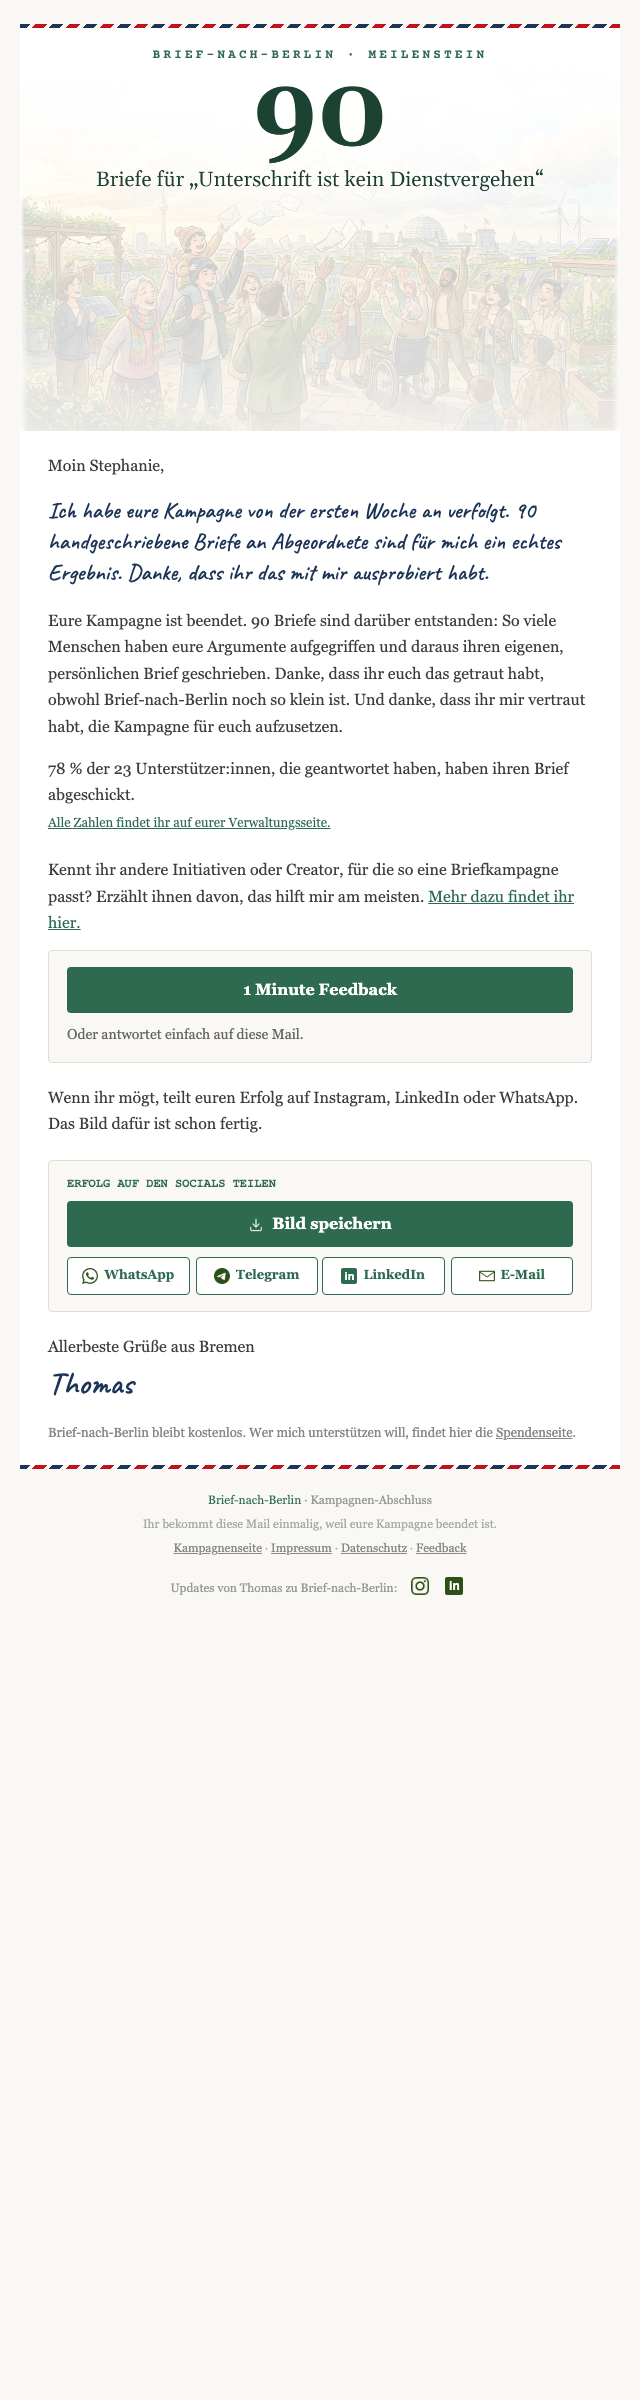
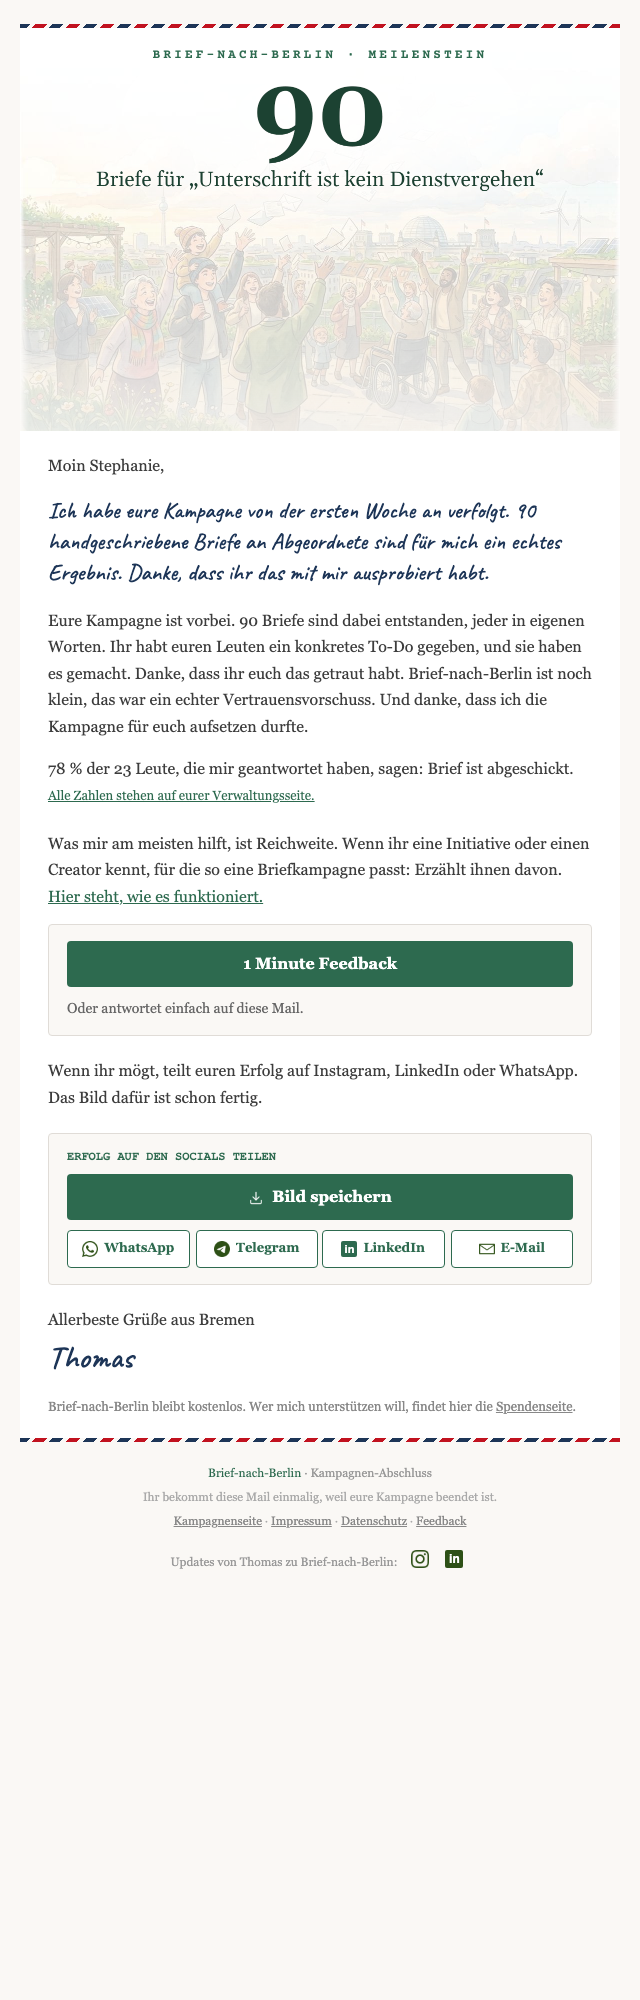
fix(email): Abschluss-Mail-Texte freigegeben: konkretes To-Do, Reichweite-Bitte, kürzere Abschickquote

Changed region(s): [[0.0312, 0.0, 0.9688, 0.713], [0.25, 0.713, 0.5, 0.775], [0.5, 0.713, 0.7188, 0.806]]

diff --git a/web/src/__tests__/campaignEndedEmail.test.ts b/web/src/__tests__/campaignEndedEmail.test.ts
@@ -35,7 +35,7 @@ describe("campaign ended creator email", () => {
 
     expect(html).toContain("Moin Stephanie,");
     expect(html).toContain(
-      "Eure Kampagne ist beendet. 90 Briefe sind darüber entstanden: So viele Menschen haben eure Argumente aufgegriffen und daraus ihren eigenen, persönlichen Brief geschrieben. Danke, dass ihr euch das getraut habt, obwohl Brief-nach-Berlin noch so klein ist.",
+      "Eure Kampagne ist vorbei. 90 Briefe sind dabei entstanden, jeder in eigenen Worten. Ihr habt euren Leuten ein konkretes To-Do gegeben, und sie haben es gemacht. Danke, dass ihr euch das getraut habt. Brief-nach-Berlin ist noch klein, das war ein echter Vertrauensvorschuss.",
     );
     expect(html).toContain(
       "Wenn ihr mögt, teilt euren Erfolg auf Instagram, LinkedIn oder WhatsApp. Das Bild dafür ist schon fertig.",
@@ -56,7 +56,7 @@ describe("campaign ended creator email", () => {
     expect(html).not.toContain("<b>Mut</b>");
     const greeting = html.indexOf("Moin Stephanie,");
     const note = html.indexOf("Ihr habt &lt;b&gt;");
-    const thanks = html.indexOf("Eure Kampagne ist beendet.");
+    const thanks = html.indexOf("Eure Kampagne ist vorbei.");
     expect(greeting).toBeLessThan(note);
     expect(note).toBeLessThan(thanks);
     expect(html).toMatch(/font-family:'Caveat'[^>]*>Ihr habt/);
@@ -76,22 +76,22 @@ describe("campaign ended creator email", () => {
   });
 
   it("adds the founder thank-you sentence only when created_by_founder", () => {
-    const sentence = "Und danke, dass ihr mir vertraut habt, die Kampagne für euch aufzusetzen.";
+    const sentence = "Und danke, dass ich die Kampagne für euch aufsetzen durfte.";
     expect(build()).not.toContain(sentence);
     expect(build({ ended: { ...ended, createdByFounder: false } })).not.toContain(sentence);
     expect(build({ ended: { ...ended, createdByFounder: true } })).toContain(sentence);
   });
 
   it("shows the honest send-rate line only with a stat, linked to the creator stats", () => {
-    expect(build()).not.toContain("haben ihren Brief abgeschickt");
+    expect(build()).not.toContain("Brief ist abgeschickt");
     expect(build()).not.toContain("#creator-stats");
 
     const html = build({ ended: { ...ended, sendStat: { percent: 78, responses: 23 } } });
     expect(html).toContain(
-      "78 % der 23 Unterstützer:innen, die geantwortet haben, haben ihren Brief abgeschickt.",
+      "78 % der 23 Leute, die mir geantwortet haben, sagen: Brief ist abgeschickt.",
     );
     expect(html).toContain(`href="${base.actionUrl}#creator-stats"`);
-    expect(html).toContain("Alle Zahlen findet ihr auf eurer Verwaltungsseite.");
+    expect(html).toContain("Alle Zahlen stehen auf eurer Verwaltungsseite.");
     expect(html).not.toContain("Statistiken ansehen");
   });
 
@@ -99,7 +99,7 @@ describe("campaign ended creator email", () => {
     const html = build();
 
     expect(html).toContain(
-      "Kennt ihr andere Initiativen oder Creator, für die so eine Briefkampagne passt? Erzählt ihnen davon, das hilft mir am meisten.",
+      "Was mir am meisten hilft, ist Reichweite. Wenn ihr eine Initiative oder einen Creator kennt, für die so eine Briefkampagne passt: Erzählt ihnen davon.",
     );
     expect(html).toContain(`href="${APP_URL}/ngo-briefkampagne"`);
     const referral = html.indexOf("/ngo-briefkampagne");
@@ -253,8 +253,8 @@ describe("sendCampaignCreatorEmail kind ended", () => {
 
     const html = mockSendTransacEmail.mock.calls[0][0].htmlContent;
     expect(html).toContain("Danke für alles.");
-    expect(html).toContain("die Kampagne für euch aufzusetzen");
-    expect(html).toContain("64 % der 12 Unterstützer:innen");
+    expect(html).toContain("die Kampagne für euch aufsetzen durfte");
+    expect(html).toContain("64 % der 12 Leute, die mir geantwortet haben");
     expect(html).toContain("/kampagne/verwalten?token=tok#creator-stats");
     expect(mockSendTransacEmail.mock.calls[0][0].subject).not.toContain("[Vorschau]");
   });

diff --git a/.planning/quick/261014-hhs-kampagnen-abschluss-mail-mit-1-minute-fe/preview/ended-founder-stats.html b/.planning/quick/261014-hhs-kampagnen-abschluss-mail-mit-1-minute-fe/preview/ended-founder-stats.html
@@ -36,9 +36,9 @@
             <td class="bnb-pad" style="padding:22px 28px 0;">
               <p style="margin:0 0 16px;font-size:16px;line-height:1.65;">Moin Stephanie,</p>
               <p style="margin:0 0 20px;font-family:'Caveat','Brush Script MT','Lucida Handwriting',cursive;color:#1D3557;font-size:23px;line-height:1.35;">Ich habe eure Kampagne von der ersten Woche an verfolgt. 90 handgeschriebene Briefe an Abgeordnete sind für mich ein echtes Ergebnis. Danke, dass ihr das mit mir ausprobiert habt.</p>
-              <p style="margin:0 0 16px;font-size:16px;line-height:1.65;">Eure Kampagne ist beendet. 90 Briefe sind darüber entstanden: So viele Menschen haben eure Argumente aufgegriffen und daraus ihren eigenen, persönlichen Brief geschrieben. Danke, dass ihr euch das getraut habt, obwohl Brief-nach-Berlin noch so klein ist. Und danke, dass ihr mir vertraut habt, die Kampagne für euch aufzusetzen.</p>
-              <p style="margin:0 0 22px;font-size:16px;line-height:1.65;">78 % der 23 Unterstützer:innen, die geantwortet haben, haben ihren Brief abgeschickt.<br><a href="https://www.brief-nach-berlin.de/kampagne/verwalten?token=vorschau#creator-stats" target="_blank" rel="noopener noreferrer" style="font-size:13px;color:#2D6A4F;text-decoration:underline;">Alle Zahlen findet ihr auf eurer Verwaltungsseite.</a></p>
-              <p style="margin:0 0 14px;font-size:16px;line-height:1.65;">Kennt ihr andere Initiativen oder Creator, für die so eine Briefkampagne passt? Erzählt ihnen davon, das hilft mir am meisten. <a href="https://www.brief-nach-berlin.de/ngo-briefkampagne" target="_blank" rel="noopener noreferrer" style="color:#2D6A4F;text-decoration:underline;">Mehr dazu findet ihr hier.</a></p>
+              <p style="margin:0 0 16px;font-size:16px;line-height:1.65;">Eure Kampagne ist vorbei. 90 Briefe sind dabei entstanden, jeder in eigenen Worten. Ihr habt euren Leuten ein konkretes To-Do gegeben, und sie haben es gemacht. Danke, dass ihr euch das getraut habt. Brief-nach-Berlin ist noch klein, das war ein echter Vertrauensvorschuss. Und danke, dass ich die Kampagne für euch aufsetzen durfte.</p>
+              <p style="margin:0 0 22px;font-size:16px;line-height:1.65;">78 % der 23 Leute, die mir geantwortet haben, sagen: Brief ist abgeschickt.<br><a href="https://www.brief-nach-berlin.de/kampagne/verwalten?token=vorschau#creator-stats" target="_blank" rel="noopener noreferrer" style="font-size:13px;color:#2D6A4F;text-decoration:underline;">Alle Zahlen stehen auf eurer Verwaltungsseite.</a></p>
+              <p style="margin:0 0 14px;font-size:16px;line-height:1.65;">Was mir am meisten hilft, ist Reichweite. Wenn ihr eine Initiative oder einen Creator kennt, für die so eine Briefkampagne passt: Erzählt ihnen davon. <a href="https://www.brief-nach-berlin.de/ngo-briefkampagne" target="_blank" rel="noopener noreferrer" style="color:#2D6A4F;text-decoration:underline;">Hier steht, wie es funktioniert.</a></p>
               <div style="margin:0 0 22px;padding:16px 18px;background-color:#FAF8F5;border:1px solid #E0DCD7;border-radius:4px;">
                 <a href="https://www.brief-nach-berlin.de/kampagne/verwalten?token=vorschau&amp;ziel=feedback" target="_blank" rel="noopener noreferrer" class="bnb-cta-link" style="display:block;text-align:center;background-color:#2D6A4F;color:#ffffff;font-size:16px;font-weight:bold;text-decoration:none;padding:13px 10px;border-radius:4px;line-height:1.25;margin:0 0 10px;">1 Minute Feedback</a>
                 <p style="margin:0;font-size:14px;line-height:1.6;color:#666666;">Oder antwortet einfach auf diese Mail.</p>

diff --git a/web/src/lib/email/buildCampaignCreatorEmailHtml.ts b/web/src/lib/email/buildCampaignCreatorEmailHtml.ts
@@ -309,19 +309,19 @@ function buildCampaignEndedEmailHtml(
       : "";
 
   const thanks = paragraph(
-    `Eure Kampagne ist beendet. ${count} Briefe sind darüber entstanden: So viele Menschen haben eure Argumente aufgegriffen und daraus ihren eigenen, persönlichen Brief geschrieben. Danke, dass ihr euch das getraut habt, obwohl Brief-nach-Berlin noch so klein ist.${
+    `Eure Kampagne ist vorbei. ${count} Briefe sind dabei entstanden, jeder in eigenen Worten. Ihr habt euren Leuten ein konkretes To-Do gegeben, und sie haben es gemacht. Danke, dass ihr euch das getraut habt. Brief-nach-Berlin ist noch klein, das war ein echter Vertrauensvorschuss.${
       ended.createdByFounder
-        ? " Und danke, dass ihr mir vertraut habt, die Kampagne für euch aufzusetzen."
+        ? " Und danke, dass ich die Kampagne für euch aufsetzen durfte."
         : ""
     }`
   );
 
   const statsLine = ended.sendStat
-    ? `<p style="margin:0 0 22px;font-size:16px;line-height:1.65;">${ended.sendStat.percent} % der ${ended.sendStat.responses} Unterstützer:innen, die geantwortet haben, haben ihren Brief abgeschickt.<br><a href="${params.actionUrl}#creator-stats" target="_blank" rel="noopener noreferrer" style="font-size:13px;${linkStyle}">Alle Zahlen findet ihr auf eurer Verwaltungsseite.</a></p>`
+    ? `<p style="margin:0 0 22px;font-size:16px;line-height:1.65;">${ended.sendStat.percent} % der ${ended.sendStat.responses} Leute, die mir geantwortet haben, sagen: Brief ist abgeschickt.<br><a href="${params.actionUrl}#creator-stats" target="_blank" rel="noopener noreferrer" style="font-size:13px;${linkStyle}">Alle Zahlen stehen auf eurer Verwaltungsseite.</a></p>`
     : "";
 
   const referral = paragraph(
-    `Kennt ihr andere Initiativen oder Creator, für die so eine Briefkampagne passt? Erzählt ihnen davon, das hilft mir am meisten. <a href="${APP_URL}/ngo-briefkampagne" target="_blank" rel="noopener noreferrer" style="${linkStyle}">Mehr dazu findet ihr hier.</a>`,
+    `Was mir am meisten hilft, ist Reichweite. Wenn ihr eine Initiative oder einen Creator kennt, für die so eine Briefkampagne passt: Erzählt ihnen davon. <a href="${APP_URL}/ngo-briefkampagne" target="_blank" rel="noopener noreferrer" style="${linkStyle}">Hier steht, wie es funktioniert.</a>`,
     "0 0 14px"
   );
 
